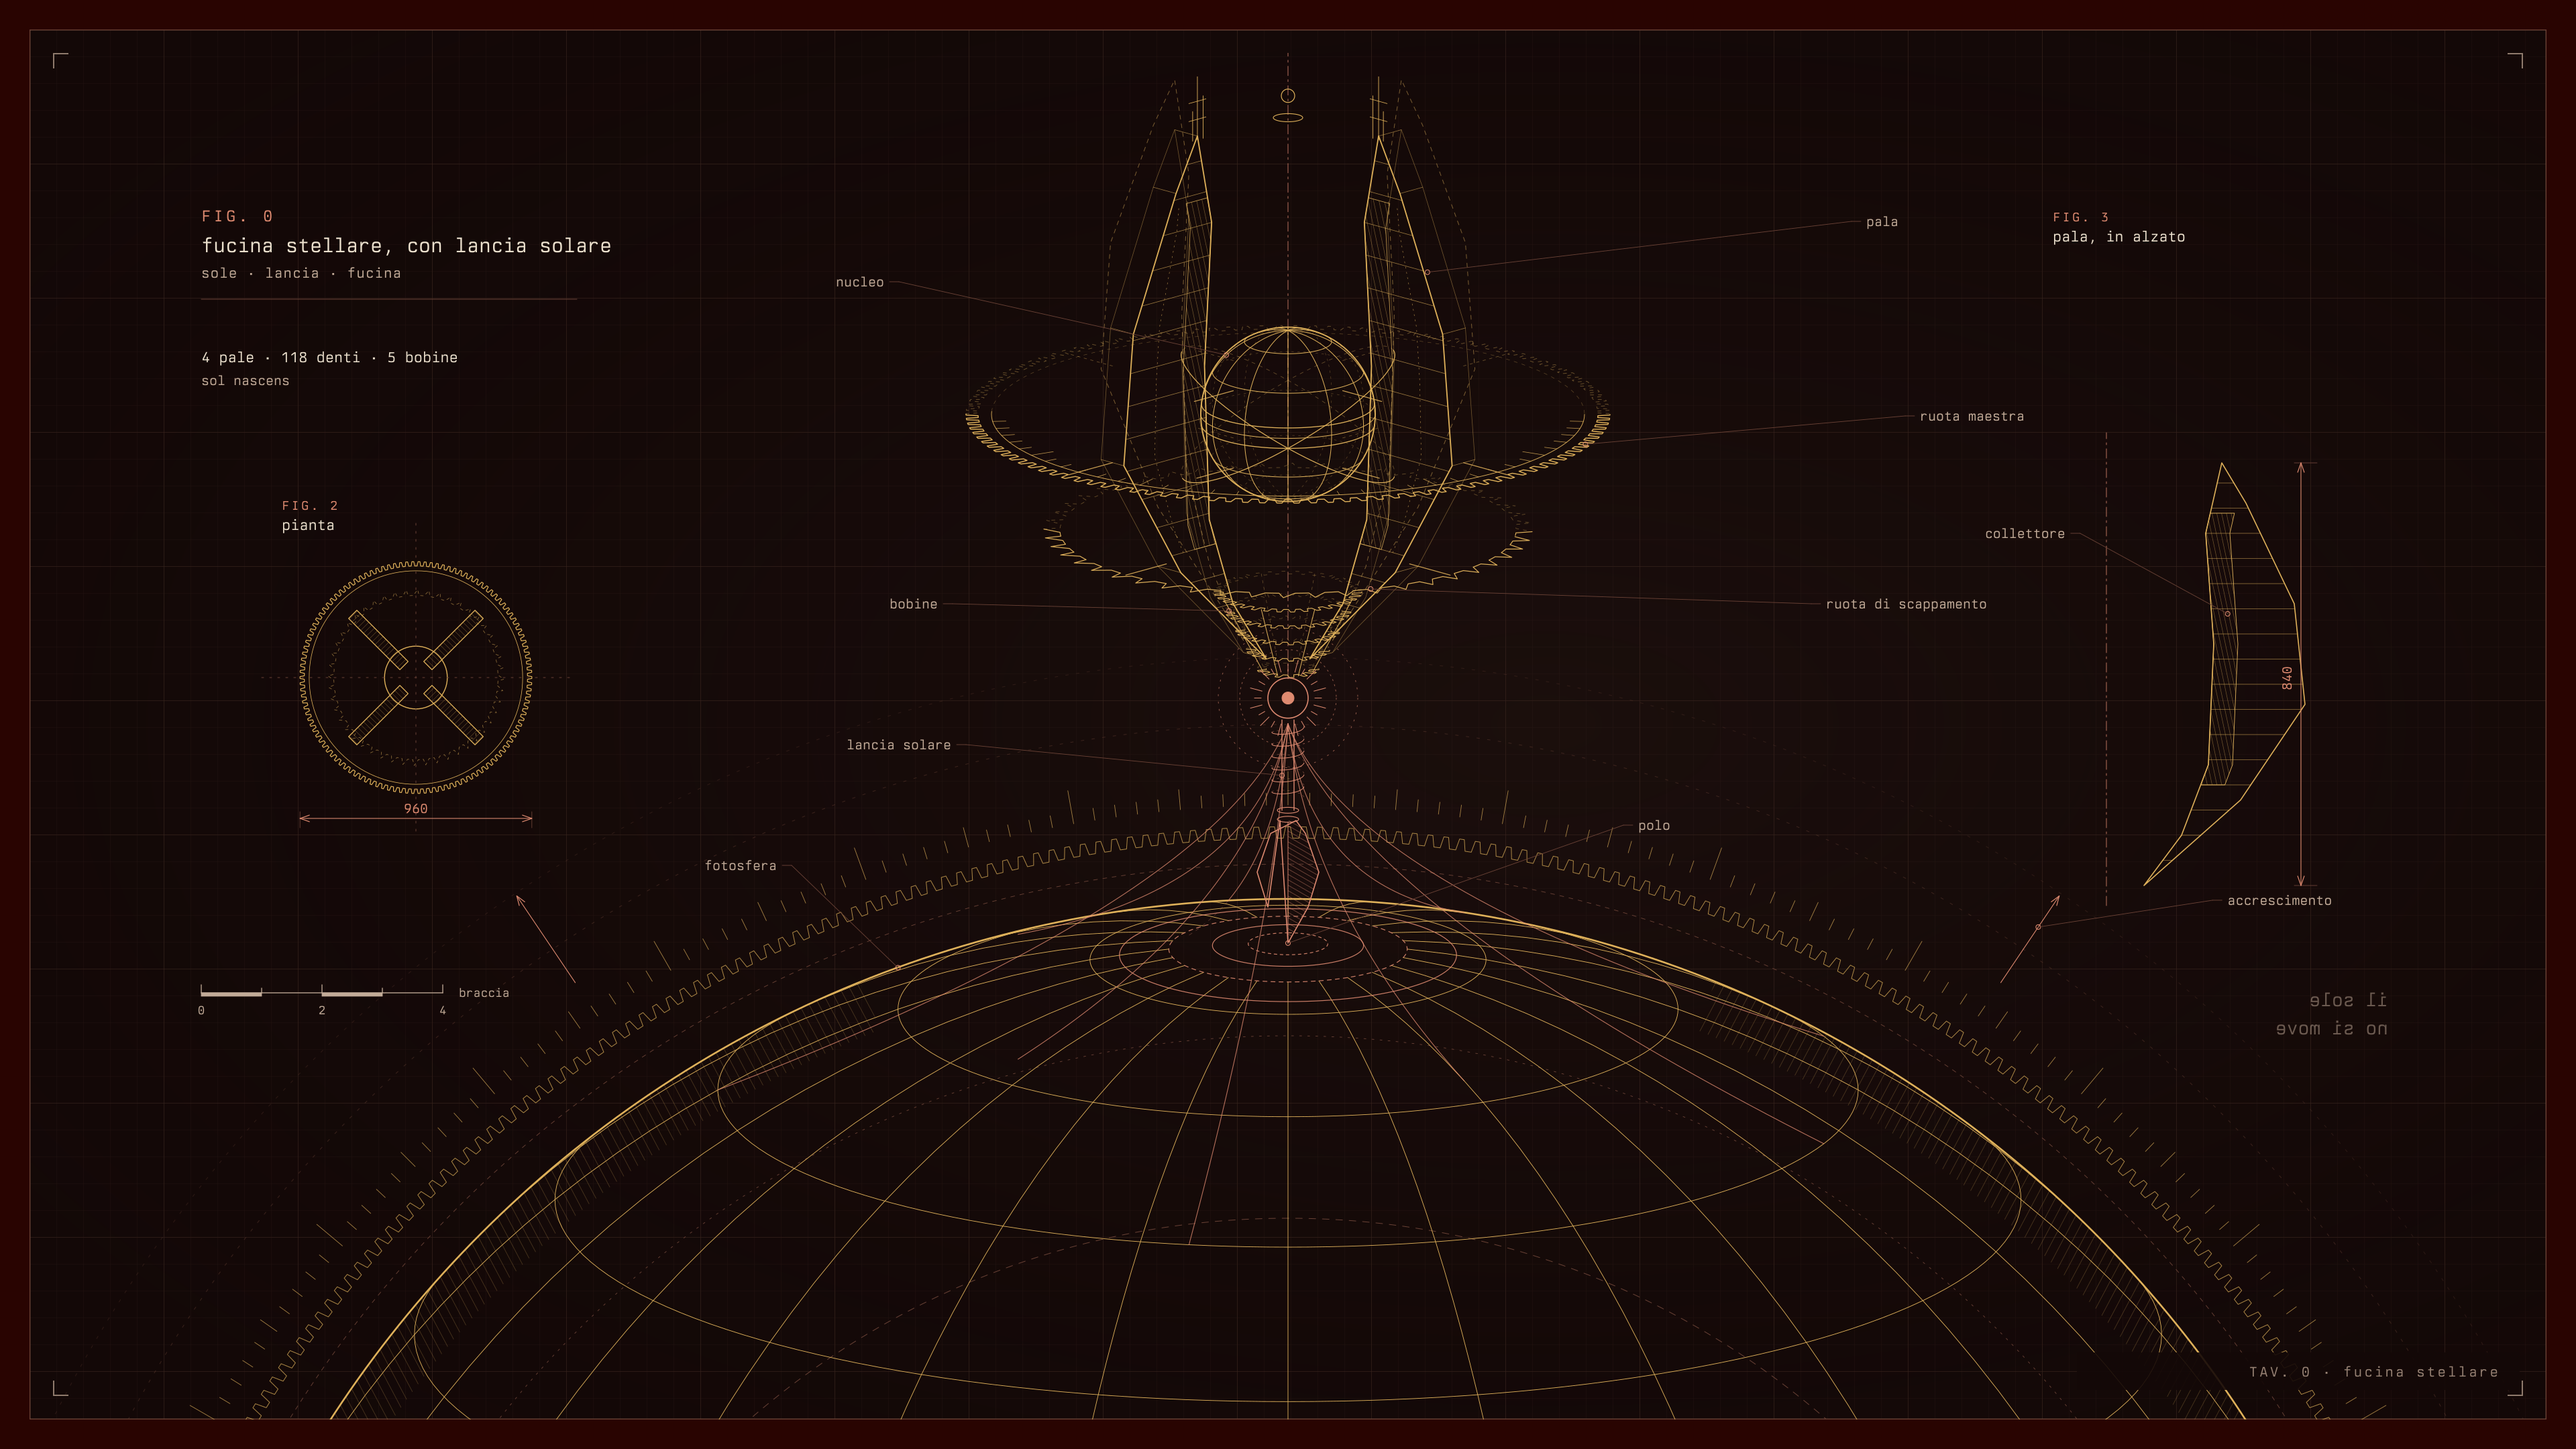
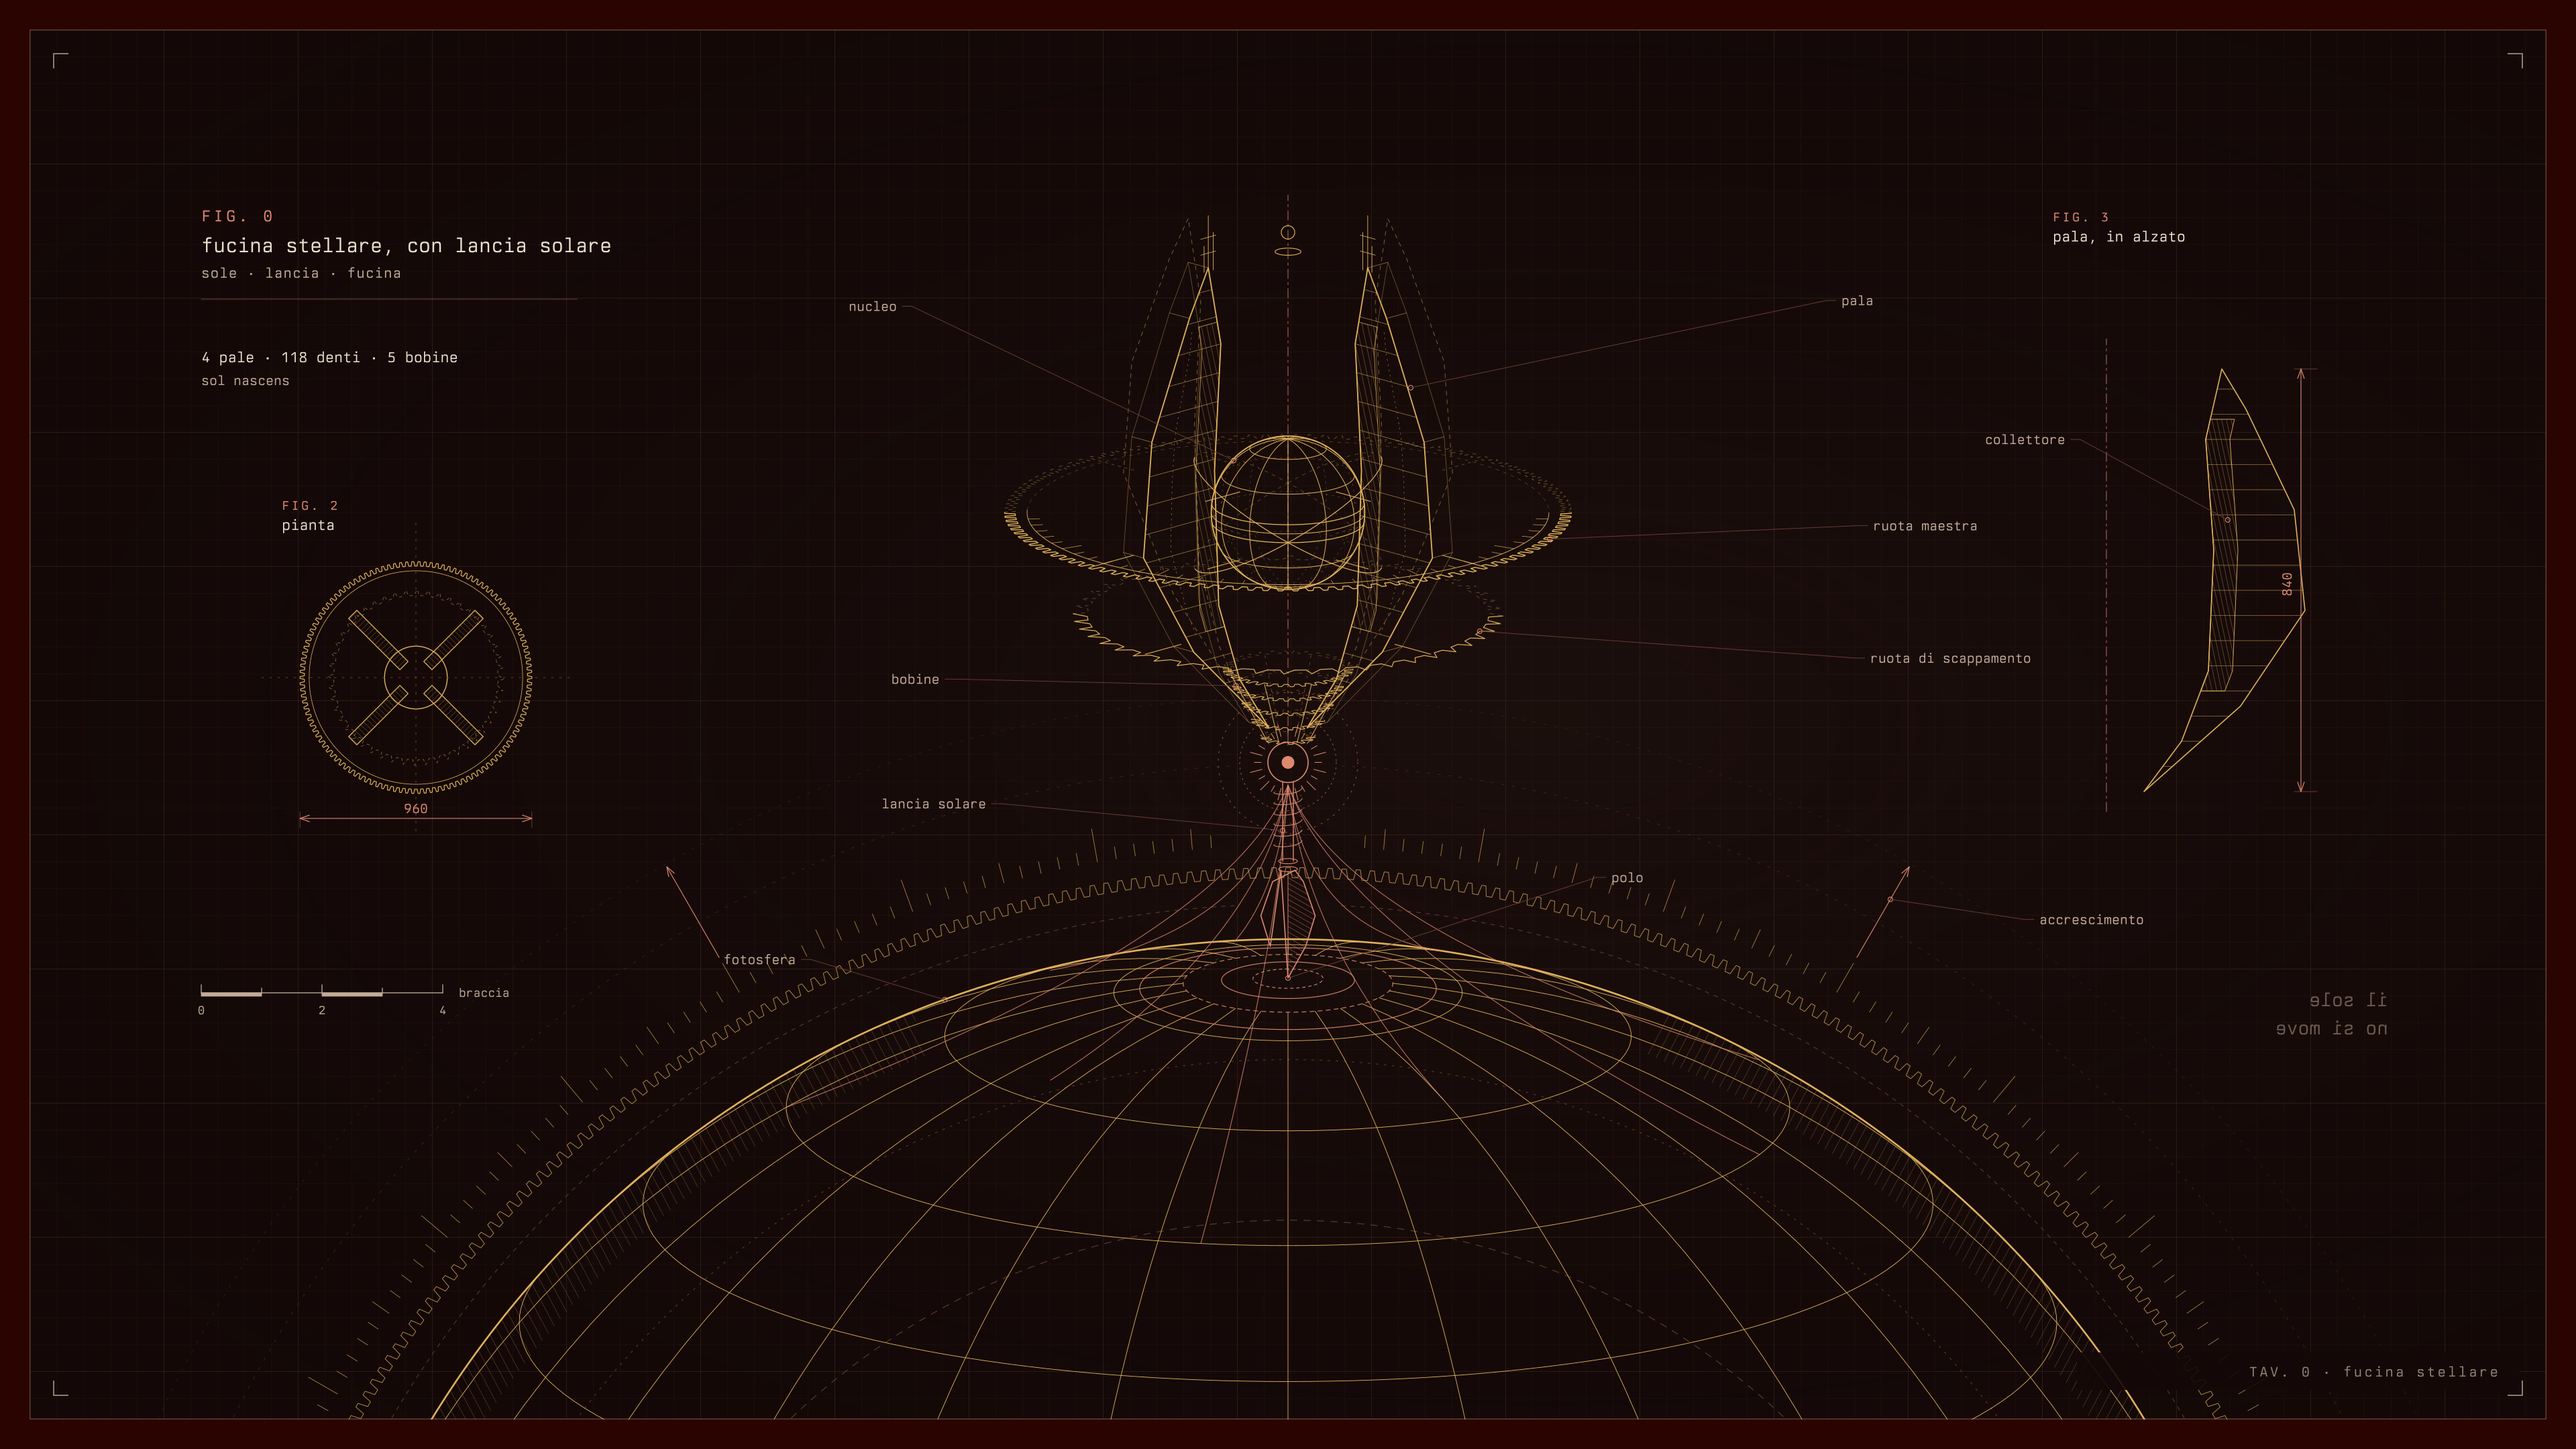
fix(backgrounds): zoomed out the star forge and cleared the lance
- Scaled the forge scene to 0.88 and set the sun's cap to the bottom
  third.
- Cut a gap in the corona ticks and dashed shells above the pole.
- Anchored leaders to their parts so labels follow the zoom.
- Raised the vane elevation clear of the growth arrows.

diff --git a/drawings.py b/drawings.py
@@ -1297,8 +1297,10 @@ def wire_sphere(s: Sheet, cam, c, r, lats, lons, role="gilt", width=1.0, far=Non
 
 def plate_fucina(s: Sheet):
     """A star forge of vanes and wheels, driving a solar lance into the sun it is building."""
-    R = 1700
-    cam = Cam(1920, 3040, 1.0, yaw=0, pitch=16)
+    # World units are the forge's; K zooms the whole scene, and the sun's cap fills the bottom third.
+    R, K = 1700, 0.88
+    Rs = R * K
+    cam = Cam(1920, 1400 + Rs, K, yaw=0, pitch=16)
     sx, sy = cam((0, 0, 0))
 
     def outside(p):
@@ -1313,39 +1315,48 @@ def plate_fucina(s: Sheet):
         return lambda p: cam.rot((p[0], 0, p[2]))[2] >= 0
 
     # The sun, clipped to the sheet: growth shells, a toothed ring at its limb, corona ticks.
+    # Rings above the pole leave a gap so the lance reads clearly.
+    def ring_gap(r, role, width, dash, op):
+        g = math.degrees(80 / r)
+        a0, a1 = math.radians(270 + g), math.radians(270 - g)
+        s.path(f"M{pt(sx + r * math.cos(a0), sy + r * math.sin(a0))} A{f(r)},{f(r)} 0 1 1 "
+               f"{pt(sx + r * math.cos(a1), sy + r * math.sin(a1))}", role, width, dash, op)
+
     i = s.inset
     cid = s.clip(f'<rect x="{i}" y="{i}" width="{W - 2 * i}" height="{H - 2 * i}"/>')
     s.add(f'<g clip-path="url(#{cid})">')
     for dr, op in ((360, 0.3), (260, 0.45)):
-        s.circle(sx, sy, R + dr, "line", 1.0, "4 12", op)
-    s.path(gear_path(sx, sy, 480, 7.5, 0.0)[0], "gilt", 1.0, None, 0.75)
-    s.circle(sx, sy, R + 52, "line", 0.9, "6 8")
+        ring_gap(Rs + dr, "line", 1.0, "4 12", op)
+    s.path(gear_path(sx, sy, 480, 2 * (Rs + 100) / 480, 0.0)[0], "gilt", 1.0, None, 0.75)
+    ring_gap(Rs + 52, "line", 0.9, "6 8", 1.0)
     for k in range(360):
+        if abs(k - 270) < 4:
+            continue
         a = math.radians(k)
-        r1 = R + (190 if k % 10 == 0 else 170 if k % 5 == 0 else 158)
-        s.line(sx + (R + 140) * math.cos(a), sy + (R + 140) * math.sin(a), sx + r1 * math.cos(a), sy + r1 * math.sin(a),
-               "gilt", 0.9, None, 0.7)
-    for ang in (236, 304):
+        r1 = Rs + (190 if k % 10 == 0 else 170 if k % 5 == 0 else 158)
+        s.line(sx + (Rs + 140) * math.cos(a), sy + (Rs + 140) * math.sin(a), sx + r1 * math.cos(a),
+               sy + r1 * math.sin(a), "gilt", 0.9, None, 0.7)
+    for ang in (240, 300):
         a = math.radians(ang)
         ux, uy = math.cos(a), math.sin(a)
-        s.line(sx + (R + 200) * ux, sy + (R + 200) * uy, sx + (R + 356) * ux, sy + (R + 356) * uy, "rubric", 1.1)
-        s.arrow(sx + (R + 356) * ux, sy + (R + 356) * uy, ux, uy)
+        s.line(sx + (Rs + 200) * ux, sy + (Rs + 200) * uy, sx + (Rs + 356) * ux, sy + (Rs + 356) * uy, "rubric", 1.1)
+        s.arrow(sx + (Rs + 356) * ux, sy + (Rs + 356) * uy, ux, uy)
 
     # Limb shading, hatched as Leonardo shaded a sphere's turning edge.
     for a0, a1, hang in ((196, 248, 62), (292, 344, 118)):
-        outer = [(sx + R * math.cos(math.radians(a)), sy + R * math.sin(math.radians(a))) for a in range(a0, a1 + 1, 2)]
-        inner = [(sx + R * 0.955 * math.cos(math.radians(a)), sy + R * 0.955 * math.sin(math.radians(a)))
+        outer = [(sx + Rs * math.cos(math.radians(a)), sy + Rs * math.sin(math.radians(a))) for a in range(a0, a1 + 1, 2)]
+        inner = [(sx + Rs * 0.955 * math.cos(math.radians(a)), sy + Rs * 0.955 * math.sin(math.radians(a)))
                  for a in range(a1, a0 - 1, -2)]
         s.hatch(outer + inner, hang, 13, "gilt", 0.8, 0.28)
 
     # Inner shells seen through the surface, the graticule, and ripples where the lance strikes.
-    s.circle(sx, sy, R * 0.72, "line", 1.0, "10 10")
-    s.circle(sx, sy, R * 0.88, "line", 0.9, "3 9")
+    s.circle(sx, sy, Rs * 0.72, "line", 1.0, "10 10")
+    s.circle(sx, sy, Rs * 0.88, "line", 0.9, "3 9")
     wire_sphere(s, cam, (0, 0, 0), R, range(30, 81, 10), range(0, 360, 15), "gilt", 0.9, lat_max=84)
     for a, dash in ((81.5, None), (84, "6 6"), (86.2, None), (88, "4 5")):
         t = math.radians(a)
         s.poly3(cam, circle3d((0, R * math.sin(t), 0), (0, 1, 0), R * math.cos(t), 120), "rubric", 1.2, dash, 0.9)
-    s.circle(sx, sy, R, "gilt", 2.6)
+    s.circle(sx, sy, Rs, "gilt", 2.6)
     s.add("</g>")
 
     # The forge stands on the sun's axis: four vanes, a core sphere, two wheels, a coiled nozzle.
@@ -1411,7 +1422,7 @@ def plate_fucina(s: Sheet):
         t = math.radians(a)
         draw_runs(s, cam, circle3d(add(C, (0, rc * math.sin(t), 0)), (0, 1, 0), rc * math.cos(t), 120), core_front,
                   "gilt", 1.3, None)
-    s.circle(*cam(C), rc, "gilt", 1.8)
+    s.circle(*cam(C), rc * K, "gilt", 1.8)
     for n in ((0.5, 0.866, 0.0), (-0.5, 0.866, 0.0)):
         draw_runs(s, cam, circle3d(C, n, 184, 120), core_front, "gilt", 1.2)
 
@@ -1492,18 +1503,22 @@ def plate_fucina(s: Sheet):
         draw_runs(s, cam, curve, outside, "rubric", 1.1, ("5 7", 0.45), 0.8)
 
     # Names.
-    s.leader(*cam(add(C, (-92, 92, 0))), 1340, 420, "nucleo")
+    def lead(p3, dx, dy, label):
+        x, y = cam(p3)
+        s.leader(x, y, x + dx, y + dy, label)
+
+    lead(add(C, (-92, 92, 0)), -480, -230, "nucleo")
     d45 = radial(math.radians(45))[0]
-    s.leader(*cam(add(mul(d45, along(OUT, 2800) - 20), (0, 2800, 0))), 2760, 330, "pala")
-    s.leader(*cam((RW * math.cos(0.35), Yc, RW * math.sin(0.35))), 2840, 620, "ruota maestra")
-    s.leader(*cam((RX * math.cos(1.2), Yw, RX * math.sin(1.2))), 2700, 900, "ruota di scappamento")
-    s.leader(*cam((-coils[3][1], coils[3][0], 0)), 1420, 900, "bobine")
-    s.leader(*cam((-9, 1960, 0)), 1440, 1110, "lancia solare")
-    s.leader(*cam((0, R, 0)), 2420, 1230, "polo")
-    lx, ly = sx + R * math.cos(math.radians(250)), sy + R * math.sin(math.radians(250))
-    s.leader(lx, ly, 1180, 1290, "fotosfera")
-    ax_, ay_ = sx + (R + 300) * math.cos(math.radians(304)), sy + (R + 300) * math.sin(math.radians(304))
-    s.leader(ax_, ay_, ax_ + 260, ay_ - 40, "accrescimento")
+    lead(add(mul(d45, along(OUT, 2800) - 20), (0, 2800, 0)), 620, -130, "pala")
+    lead((RW * math.cos(0.35), Yc, RW * math.sin(0.35)), 460, -20, "ruota maestra")
+    lead((RX * math.cos(0.3), Yw, RX * math.sin(0.3)), 560, 40, "ruota di scappamento")
+    lead((-coils[3][1], coils[3][0], 0), -420, -10, "bobine")
+    lead((-9, 1960, 0), -420, -40, "lancia solare")
+    lead((0, R, 0), 460, -150, "polo")
+    lx, ly = sx + Rs * math.cos(math.radians(250)), sy + Rs * math.sin(math.radians(250))
+    s.leader(lx, ly, lx - 200, ly - 60, "fotosfera")
+    ax_, ay_ = sx + (Rs + 300) * math.cos(math.radians(300)), sy + (Rs + 300) * math.sin(math.radians(300))
+    s.leader(ax_, ay_, ax_ + 200, ay_ + 30, "accrescimento")
 
     # FIG. 2: the forge in plan.
     k, px, py = 0.36, 620, 1010
@@ -1526,7 +1541,7 @@ def plate_fucina(s: Sheet):
     s.fig(3060, 330, 3, "pala, in alzato")
 
     def el(r, y):
-        return 3140 + r * 0.8, 1320 - (y - Y0) * 0.75
+        return 3140 + r * 0.8, 1180 - (y - Y0) * 0.75
 
     s.line(*el(0, Y0 - 40), *el(0, Y1 + 60), "rubric", 1.0, "14 6 3 6", 0.8)
     s.poly([el(r, y) for r, y in profile], "gilt", 1.6, closed=True)
